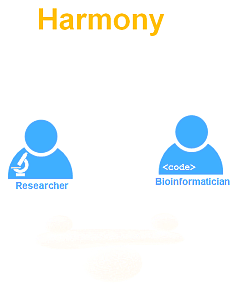
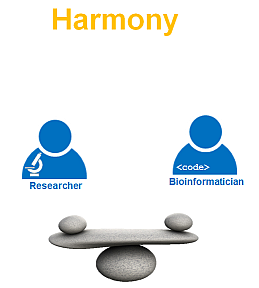
changed the installation chapter

diff --git a/docs/roadmap.html b/docs/roadmap.html
@@ -71,6 +71,7 @@
 <li class="chapter" data-level="1" data-path="introduction.html"><a href="introduction.html"><i class="fa fa-check"></i><b>1</b> Introduction</a><ul>
 <li class="chapter" data-level="" data-path="introduction.html"><a href="introduction.html#motivation"><i class="fa fa-check"></i>Motivation</a></li>
 <li class="chapter" data-level="" data-path="introduction.html"><a href="introduction.html#challenges"><i class="fa fa-check"></i>Challenges</a></li>
+<li class="chapter" data-level="" data-path="introduction.html"><a href="introduction.html#way-forward"><i class="fa fa-check"></i>Way forward</a></li>
 </ul></li>
 <li class="chapter" data-level="2" data-path="tercen-features.html"><a href="tercen-features.html"><i class="fa fa-check"></i><b>2</b> Tercen features</a></li>
 <li class="chapter" data-level="3" data-path="concepts.html"><a href="concepts.html"><i class="fa fa-check"></i><b>3</b> Concepts</a></li>
@@ -93,7 +94,7 @@
 <li class="chapter" data-level="15.1" data-path="deployment.html"><a href="deployment.html#cloud"><i class="fa fa-check"></i><b>15.1</b> Cloud</a></li>
 <li class="chapter" data-level="15.2" data-path="deployment.html"><a href="deployment.html#on-site"><i class="fa fa-check"></i><b>15.2</b> On-site</a></li>
 </ul></li>
-<li class="chapter" data-level="16" data-path="installation.html"><a href="installation.html"><i class="fa fa-check"></i><b>16</b> Installation</a></li>
+<li class="chapter" data-level="16" data-path="server.html"><a href="server.html"><i class="fa fa-check"></i><b>16</b> Running a server</a></li>
 <li class="chapter" data-level="17" data-path="getting-started.html"><a href="getting-started.html"><i class="fa fa-check"></i><b>17</b> Getting started</a></li>
 <li class="chapter" data-level="18" data-path="known-issues.html"><a href="known-issues.html"><i class="fa fa-check"></i><b>18</b> Known issues</a></li>
 <li class="chapter" data-level="19" data-path="roadmap.html"><a href="roadmap.html"><i class="fa fa-check"></i><b>19</b> Roadmap</a></li>
@@ -117,9 +118,11 @@
             <section class="normal" id="section-">
 <div id="roadmap" class="section level1">
 <h1><span class="header-section-number">Chapter 19</span> Roadmap</h1>
-<p>Tercen is complex software and requires to built up in stages with constant feedback. The alpha version allows for testing the value proposition and the feature list. The <strong>Beta</strong> and <strong>Final</strong> are about up-scaling.</p>
-<p><strong>Alpha</strong> Released begin 2016</p>
-<p><strong>Beta</strong> Release begin 2017</p>
+<p>Tercen is complex software and requires to built up in stages with constant feedback. The alpha version allows for testing the value proposition and the feature list. The <strong>beta</strong> and <strong>final</strong> are about up-scaling.</p>
+<p><strong>alpha</strong></p>
+<p>Released begin 2016</p>
+<p><strong>beta</strong></p>
+<p>Release begin 2017</p>
 <ul>
 <li>New server application, called Tercen_Server(beta)</li>
 <li>Easy one button installation</li>
@@ -139,7 +142,8 @@
 <li>New full programmatic access to Tercen</li>
 <li>New tercen R package</li>
 </ul>
-<p><strong>Final</strong> Scheduled for mid 2018</p>
+<p><strong>final</strong></p>
+<p>Scheduled for mid 2018</p>
 <center>
 <img src="images/roadmap.png" />
 </center>

diff --git a/docs/introduction.html b/docs/introduction.html
@@ -71,6 +71,7 @@
 <li class="chapter" data-level="1" data-path="introduction.html"><a href="introduction.html"><i class="fa fa-check"></i><b>1</b> Introduction</a><ul>
 <li class="chapter" data-level="" data-path="introduction.html"><a href="introduction.html#motivation"><i class="fa fa-check"></i>Motivation</a></li>
 <li class="chapter" data-level="" data-path="introduction.html"><a href="introduction.html#challenges"><i class="fa fa-check"></i>Challenges</a></li>
+<li class="chapter" data-level="" data-path="introduction.html"><a href="introduction.html#way-forward"><i class="fa fa-check"></i>Way forward</a></li>
 </ul></li>
 <li class="chapter" data-level="2" data-path="tercen-features.html"><a href="tercen-features.html"><i class="fa fa-check"></i><b>2</b> Tercen features</a></li>
 <li class="chapter" data-level="3" data-path="concepts.html"><a href="concepts.html"><i class="fa fa-check"></i><b>3</b> Concepts</a></li>
@@ -93,7 +94,7 @@
 <li class="chapter" data-level="15.1" data-path="deployment.html"><a href="deployment.html#cloud"><i class="fa fa-check"></i><b>15.1</b> Cloud</a></li>
 <li class="chapter" data-level="15.2" data-path="deployment.html"><a href="deployment.html#on-site"><i class="fa fa-check"></i><b>15.2</b> On-site</a></li>
 </ul></li>
-<li class="chapter" data-level="16" data-path="installation.html"><a href="installation.html"><i class="fa fa-check"></i><b>16</b> Installation</a></li>
+<li class="chapter" data-level="16" data-path="server.html"><a href="server.html"><i class="fa fa-check"></i><b>16</b> Running a server</a></li>
 <li class="chapter" data-level="17" data-path="getting-started.html"><a href="getting-started.html"><i class="fa fa-check"></i><b>17</b> Getting started</a></li>
 <li class="chapter" data-level="18" data-path="known-issues.html"><a href="known-issues.html"><i class="fa fa-check"></i><b>18</b> Known issues</a></li>
 <li class="chapter" data-level="19" data-path="roadmap.html"><a href="roadmap.html"><i class="fa fa-check"></i><b>19</b> Roadmap</a></li>
@@ -129,23 +130,20 @@
 </div>
 <div id="challenges" class="section level2 unnumbered">
 <h2>Challenges</h2>
-<p><strong>Analysis time</strong></p>
+<p><strong>Large Analysis time</strong></p>
 <p>Researchers are spending more time performing analysis.</p>
-<center>
-<img src="images/highthrougput.png" />
-</center>
-<p><strong>Control</strong></p>
-<p>Researchers want control back.</p>
-<center>
-<img src="images/empower_liberate.png" />
-</center>
+<p><strong>Large data sets</strong></p>
+<p>Researchers want to interact with large data sets.</p>
 <p><strong>Ratio</strong></p>
-<p>The ratio between the programmers vs non programmers can be large.</p>
-<center>
-<img src="images/ratio.png" />
-</center>
+<p>The ratio between the programmers vs non-programmers can be large.</p>
+<p><strong>Control</strong></p>
+<p>Researchers want control of their data.</p>
+</div>
+<div id="way-forward" class="section level2 unnumbered">
+<h2>Way forward</h2>
+<p>The way forward is to get researchers back in control of their data.</p>
 <p><strong>Harmony</strong></p>
-<p>We require to get harmony back between the researchers.</p>
+<p>A more harmonious state between the programmers and non-programmers.</p>
 <center>
 <img src="images/harmony.png" />
 </center>

diff --git a/docs/external-databases.html b/docs/external-databases.html
@@ -71,6 +71,7 @@
 <li class="chapter" data-level="1" data-path="introduction.html"><a href="introduction.html"><i class="fa fa-check"></i><b>1</b> Introduction</a><ul>
 <li class="chapter" data-level="" data-path="introduction.html"><a href="introduction.html#motivation"><i class="fa fa-check"></i>Motivation</a></li>
 <li class="chapter" data-level="" data-path="introduction.html"><a href="introduction.html#challenges"><i class="fa fa-check"></i>Challenges</a></li>
+<li class="chapter" data-level="" data-path="introduction.html"><a href="introduction.html#way-forward"><i class="fa fa-check"></i>Way forward</a></li>
 </ul></li>
 <li class="chapter" data-level="2" data-path="tercen-features.html"><a href="tercen-features.html"><i class="fa fa-check"></i><b>2</b> Tercen features</a></li>
 <li class="chapter" data-level="3" data-path="concepts.html"><a href="concepts.html"><i class="fa fa-check"></i><b>3</b> Concepts</a></li>
@@ -93,7 +94,7 @@
 <li class="chapter" data-level="15.1" data-path="deployment.html"><a href="deployment.html#cloud"><i class="fa fa-check"></i><b>15.1</b> Cloud</a></li>
 <li class="chapter" data-level="15.2" data-path="deployment.html"><a href="deployment.html#on-site"><i class="fa fa-check"></i><b>15.2</b> On-site</a></li>
 </ul></li>
-<li class="chapter" data-level="16" data-path="installation.html"><a href="installation.html"><i class="fa fa-check"></i><b>16</b> Installation</a></li>
+<li class="chapter" data-level="16" data-path="server.html"><a href="server.html"><i class="fa fa-check"></i><b>16</b> Running a server</a></li>
 <li class="chapter" data-level="17" data-path="getting-started.html"><a href="getting-started.html"><i class="fa fa-check"></i><b>17</b> Getting started</a></li>
 <li class="chapter" data-level="18" data-path="known-issues.html"><a href="known-issues.html"><i class="fa fa-check"></i><b>18</b> Known issues</a></li>
 <li class="chapter" data-level="19" data-path="roadmap.html"><a href="roadmap.html"><i class="fa fa-check"></i><b>19</b> Roadmap</a></li>
@@ -118,12 +119,12 @@
 <div id="external-databases" class="section level1">
 <h1><span class="header-section-number">Chapter 7</span> External databases</h1>
 <p>Researchers require to add extra information into their data analysis. This is usually extra annotation or even data from an external source (i.e. database). This is effectively a join between two data sets.</p>
-<p>The <em>data step</em> called <em>join left</em> and <em>join right</em> are used for this. The extra data requires to be uploaded first. This is done using the standard method of uploading to Tercen.</p>
+<p>The <strong>data step</strong> called <strong>join left</strong> and <strong>join right</strong> are used for this. The extra data requires to be uploaded first. This is done using the standard method of uploading to Tercen.</p>
 <center>
 <img src="images/workflow_join.png" />
 </center>
 <p>A common key or keys are required to join the two data sets.</p>
-<p>Once joined the extra annotations or data are available for any succeeding <em>step</em>.</p>
+<p>Once joined the extra annotations or data are available for any succeeding <strong>step</strong>.</p>
 <center>
 <img src="images/database.png" />
 </center>

diff --git a/docs/results-reporting.html b/docs/results-reporting.html
@@ -71,6 +71,7 @@
 <li class="chapter" data-level="1" data-path="introduction.html"><a href="introduction.html"><i class="fa fa-check"></i><b>1</b> Introduction</a><ul>
 <li class="chapter" data-level="" data-path="introduction.html"><a href="introduction.html#motivation"><i class="fa fa-check"></i>Motivation</a></li>
 <li class="chapter" data-level="" data-path="introduction.html"><a href="introduction.html#challenges"><i class="fa fa-check"></i>Challenges</a></li>
+<li class="chapter" data-level="" data-path="introduction.html"><a href="introduction.html#way-forward"><i class="fa fa-check"></i>Way forward</a></li>
 </ul></li>
 <li class="chapter" data-level="2" data-path="tercen-features.html"><a href="tercen-features.html"><i class="fa fa-check"></i><b>2</b> Tercen features</a></li>
 <li class="chapter" data-level="3" data-path="concepts.html"><a href="concepts.html"><i class="fa fa-check"></i><b>3</b> Concepts</a></li>
@@ -93,7 +94,7 @@
 <li class="chapter" data-level="15.1" data-path="deployment.html"><a href="deployment.html#cloud"><i class="fa fa-check"></i><b>15.1</b> Cloud</a></li>
 <li class="chapter" data-level="15.2" data-path="deployment.html"><a href="deployment.html#on-site"><i class="fa fa-check"></i><b>15.2</b> On-site</a></li>
 </ul></li>
-<li class="chapter" data-level="16" data-path="installation.html"><a href="installation.html"><i class="fa fa-check"></i><b>16</b> Installation</a></li>
+<li class="chapter" data-level="16" data-path="server.html"><a href="server.html"><i class="fa fa-check"></i><b>16</b> Running a server</a></li>
 <li class="chapter" data-level="17" data-path="getting-started.html"><a href="getting-started.html"><i class="fa fa-check"></i><b>17</b> Getting started</a></li>
 <li class="chapter" data-level="18" data-path="known-issues.html"><a href="known-issues.html"><i class="fa fa-check"></i><b>18</b> Known issues</a></li>
 <li class="chapter" data-level="19" data-path="roadmap.html"><a href="roadmap.html"><i class="fa fa-check"></i><b>19</b> Roadmap</a></li>
@@ -117,8 +118,8 @@
             <section class="normal" id="section-">
 <div id="results-reporting" class="section level1">
 <h1><span class="header-section-number">Chapter 10</span> Results reporting</h1>
-<p>The ability to publish results for scientific journals or even group presentation is key. The current version of beta is implementing the a high quality image output. Any <em>data step</em> allows the researcher to export a high quality visual for reports.</p>
-<p>The final release of Tercen is targeted to have a full reporting subsystem in order to convert <em>workflows</em> into reports.</p>
+<p>The ability to publish results for scientific journals or even group presentation is key. The current version of beta is implementing a high quality image output. Any <strong>data step</strong> allows the researcher to export a high quality visual for reports.</p>
+<p>The final release of Tercen is targeted to have a full reporting subsystem in order to convert <strong>workflows</strong> into reports.</p>
 <center>
 <img src="images/report.png" />
 </center>

diff --git a/docs/tercen-features.html b/docs/tercen-features.html
@@ -71,6 +71,7 @@
 <li class="chapter" data-level="1" data-path="introduction.html"><a href="introduction.html"><i class="fa fa-check"></i><b>1</b> Introduction</a><ul>
 <li class="chapter" data-level="" data-path="introduction.html"><a href="introduction.html#motivation"><i class="fa fa-check"></i>Motivation</a></li>
 <li class="chapter" data-level="" data-path="introduction.html"><a href="introduction.html#challenges"><i class="fa fa-check"></i>Challenges</a></li>
+<li class="chapter" data-level="" data-path="introduction.html"><a href="introduction.html#way-forward"><i class="fa fa-check"></i>Way forward</a></li>
 </ul></li>
 <li class="chapter" data-level="2" data-path="tercen-features.html"><a href="tercen-features.html"><i class="fa fa-check"></i><b>2</b> Tercen features</a></li>
 <li class="chapter" data-level="3" data-path="concepts.html"><a href="concepts.html"><i class="fa fa-check"></i><b>3</b> Concepts</a></li>
@@ -93,7 +94,7 @@
 <li class="chapter" data-level="15.1" data-path="deployment.html"><a href="deployment.html#cloud"><i class="fa fa-check"></i><b>15.1</b> Cloud</a></li>
 <li class="chapter" data-level="15.2" data-path="deployment.html"><a href="deployment.html#on-site"><i class="fa fa-check"></i><b>15.2</b> On-site</a></li>
 </ul></li>
-<li class="chapter" data-level="16" data-path="installation.html"><a href="installation.html"><i class="fa fa-check"></i><b>16</b> Installation</a></li>
+<li class="chapter" data-level="16" data-path="server.html"><a href="server.html"><i class="fa fa-check"></i><b>16</b> Running a server</a></li>
 <li class="chapter" data-level="17" data-path="getting-started.html"><a href="getting-started.html"><i class="fa fa-check"></i><b>17</b> Getting started</a></li>
 <li class="chapter" data-level="18" data-path="known-issues.html"><a href="known-issues.html"><i class="fa fa-check"></i><b>18</b> Known issues</a></li>
 <li class="chapter" data-level="19" data-path="roadmap.html"><a href="roadmap.html"><i class="fa fa-check"></i><b>19</b> Roadmap</a></li>
@@ -176,10 +177,10 @@
 <p>Refer to chapter <a href="programmatic-access.html#programmatic-access">14</a>.</p>
 <p><strong>Cloud hosted or on-site</strong></p>
 <p>A researcher shares the complete process via a secure internet connection to secure cloud service, all computation resources (CPU, RAM and hard disk) are dynamically allocated to the researcher. Tercen is also available for onsite deployment.</p>
-<p>Refer to chapter <a href="deployment.html#deployment">15</a>.</p>
+<p>Refer to chapter <a href="deployment.html#deployment">15</a> and chapter <a href="server.html#server">16</a>.</p>
 <p><strong>Zero install</strong></p>
 <p>A researcher immediately starts performing analysis using a browser on any device without the aid of an IT administration.</p>
-<p>Refer to chapter <a href="installation.html#installation">16</a>.</p>
+<p>Refer to chapter <a href="deployment.html#deployment">15</a>.</p>
 <center>
 <img src="images/deploy.png" />
 </center>

diff --git a/docs/deployment.html b/docs/deployment.html
@@ -32,7 +32,7 @@
   
   
 <link rel="prev" href="programmatic-access.html">
-<link rel="next" href="installation.html">
+<link rel="next" href="server.html">
 <script src="libs/jquery-2.2.3/jquery.min.js"></script>
 <link href="libs/gitbook-2.6.7/css/style.css" rel="stylesheet" />
 <link href="libs/gitbook-2.6.7/css/plugin-bookdown.css" rel="stylesheet" />
@@ -71,6 +71,7 @@
 <li class="chapter" data-level="1" data-path="introduction.html"><a href="introduction.html"><i class="fa fa-check"></i><b>1</b> Introduction</a><ul>
 <li class="chapter" data-level="" data-path="introduction.html"><a href="introduction.html#motivation"><i class="fa fa-check"></i>Motivation</a></li>
 <li class="chapter" data-level="" data-path="introduction.html"><a href="introduction.html#challenges"><i class="fa fa-check"></i>Challenges</a></li>
+<li class="chapter" data-level="" data-path="introduction.html"><a href="introduction.html#way-forward"><i class="fa fa-check"></i>Way forward</a></li>
 </ul></li>
 <li class="chapter" data-level="2" data-path="tercen-features.html"><a href="tercen-features.html"><i class="fa fa-check"></i><b>2</b> Tercen features</a></li>
 <li class="chapter" data-level="3" data-path="concepts.html"><a href="concepts.html"><i class="fa fa-check"></i><b>3</b> Concepts</a></li>
@@ -93,7 +94,7 @@
 <li class="chapter" data-level="15.1" data-path="deployment.html"><a href="deployment.html#cloud"><i class="fa fa-check"></i><b>15.1</b> Cloud</a></li>
 <li class="chapter" data-level="15.2" data-path="deployment.html"><a href="deployment.html#on-site"><i class="fa fa-check"></i><b>15.2</b> On-site</a></li>
 </ul></li>
-<li class="chapter" data-level="16" data-path="installation.html"><a href="installation.html"><i class="fa fa-check"></i><b>16</b> Installation</a></li>
+<li class="chapter" data-level="16" data-path="server.html"><a href="server.html"><i class="fa fa-check"></i><b>16</b> Running a server</a></li>
 <li class="chapter" data-level="17" data-path="getting-started.html"><a href="getting-started.html"><i class="fa fa-check"></i><b>17</b> Getting started</a></li>
 <li class="chapter" data-level="18" data-path="known-issues.html"><a href="known-issues.html"><i class="fa fa-check"></i><b>18</b> Known issues</a></li>
 <li class="chapter" data-level="19" data-path="roadmap.html"><a href="roadmap.html"><i class="fa fa-check"></i><b>19</b> Roadmap</a></li>
@@ -161,7 +162,7 @@
         </div>
       </div>
 <a href="programmatic-access.html" class="navigation navigation-prev " aria-label="Previous page"><i class="fa fa-angle-left"></i></a>
-<a href="installation.html" class="navigation navigation-next " aria-label="Next page"><i class="fa fa-angle-right"></i></a>
+<a href="server.html" class="navigation navigation-next " aria-label="Next page"><i class="fa fa-angle-right"></i></a>
     </div>
   </div>
 <script src="libs/gitbook-2.6.7/js/app.min.js"></script>

diff --git a/docs/getting-started.html b/docs/getting-started.html
@@ -31,7 +31,7 @@
   <meta name="apple-mobile-web-app-status-bar-style" content="black">
   
   
-<link rel="prev" href="installation.html">
+<link rel="prev" href="server.html">
 <link rel="next" href="known-issues.html">
 <script src="libs/jquery-2.2.3/jquery.min.js"></script>
 <link href="libs/gitbook-2.6.7/css/style.css" rel="stylesheet" />
@@ -71,6 +71,7 @@
 <li class="chapter" data-level="1" data-path="introduction.html"><a href="introduction.html"><i class="fa fa-check"></i><b>1</b> Introduction</a><ul>
 <li class="chapter" data-level="" data-path="introduction.html"><a href="introduction.html#motivation"><i class="fa fa-check"></i>Motivation</a></li>
 <li class="chapter" data-level="" data-path="introduction.html"><a href="introduction.html#challenges"><i class="fa fa-check"></i>Challenges</a></li>
+<li class="chapter" data-level="" data-path="introduction.html"><a href="introduction.html#way-forward"><i class="fa fa-check"></i>Way forward</a></li>
 </ul></li>
 <li class="chapter" data-level="2" data-path="tercen-features.html"><a href="tercen-features.html"><i class="fa fa-check"></i><b>2</b> Tercen features</a></li>
 <li class="chapter" data-level="3" data-path="concepts.html"><a href="concepts.html"><i class="fa fa-check"></i><b>3</b> Concepts</a></li>
@@ -93,7 +94,7 @@
 <li class="chapter" data-level="15.1" data-path="deployment.html"><a href="deployment.html#cloud"><i class="fa fa-check"></i><b>15.1</b> Cloud</a></li>
 <li class="chapter" data-level="15.2" data-path="deployment.html"><a href="deployment.html#on-site"><i class="fa fa-check"></i><b>15.2</b> On-site</a></li>
 </ul></li>
-<li class="chapter" data-level="16" data-path="installation.html"><a href="installation.html"><i class="fa fa-check"></i><b>16</b> Installation</a></li>
+<li class="chapter" data-level="16" data-path="server.html"><a href="server.html"><i class="fa fa-check"></i><b>16</b> Running a server</a></li>
 <li class="chapter" data-level="17" data-path="getting-started.html"><a href="getting-started.html"><i class="fa fa-check"></i><b>17</b> Getting started</a></li>
 <li class="chapter" data-level="18" data-path="known-issues.html"><a href="known-issues.html"><i class="fa fa-check"></i><b>18</b> Known issues</a></li>
 <li class="chapter" data-level="19" data-path="roadmap.html"><a href="roadmap.html"><i class="fa fa-check"></i><b>19</b> Roadmap</a></li>
@@ -135,7 +136,7 @@
           </div>
         </div>
       </div>
-<a href="installation.html" class="navigation navigation-prev " aria-label="Previous page"><i class="fa fa-angle-left"></i></a>
+<a href="server.html" class="navigation navigation-prev " aria-label="Previous page"><i class="fa fa-angle-left"></i></a>
 <a href="known-issues.html" class="navigation navigation-next " aria-label="Next page"><i class="fa fa-angle-right"></i></a>
     </div>
   </div>

diff --git a/docs/visualization.html b/docs/visualization.html
@@ -71,6 +71,7 @@
 <li class="chapter" data-level="1" data-path="introduction.html"><a href="introduction.html"><i class="fa fa-check"></i><b>1</b> Introduction</a><ul>
 <li class="chapter" data-level="" data-path="introduction.html"><a href="introduction.html#motivation"><i class="fa fa-check"></i>Motivation</a></li>
 <li class="chapter" data-level="" data-path="introduction.html"><a href="introduction.html#challenges"><i class="fa fa-check"></i>Challenges</a></li>
+<li class="chapter" data-level="" data-path="introduction.html"><a href="introduction.html#way-forward"><i class="fa fa-check"></i>Way forward</a></li>
 </ul></li>
 <li class="chapter" data-level="2" data-path="tercen-features.html"><a href="tercen-features.html"><i class="fa fa-check"></i><b>2</b> Tercen features</a></li>
 <li class="chapter" data-level="3" data-path="concepts.html"><a href="concepts.html"><i class="fa fa-check"></i><b>3</b> Concepts</a></li>
@@ -93,7 +94,7 @@
 <li class="chapter" data-level="15.1" data-path="deployment.html"><a href="deployment.html#cloud"><i class="fa fa-check"></i><b>15.1</b> Cloud</a></li>
 <li class="chapter" data-level="15.2" data-path="deployment.html"><a href="deployment.html#on-site"><i class="fa fa-check"></i><b>15.2</b> On-site</a></li>
 </ul></li>
-<li class="chapter" data-level="16" data-path="installation.html"><a href="installation.html"><i class="fa fa-check"></i><b>16</b> Installation</a></li>
+<li class="chapter" data-level="16" data-path="server.html"><a href="server.html"><i class="fa fa-check"></i><b>16</b> Running a server</a></li>
 <li class="chapter" data-level="17" data-path="getting-started.html"><a href="getting-started.html"><i class="fa fa-check"></i><b>17</b> Getting started</a></li>
 <li class="chapter" data-level="18" data-path="known-issues.html"><a href="known-issues.html"><i class="fa fa-check"></i><b>18</b> Known issues</a></li>
 <li class="chapter" data-level="19" data-path="roadmap.html"><a href="roadmap.html"><i class="fa fa-check"></i><b>19</b> Roadmap</a></li>
@@ -126,7 +127,7 @@
 <li>color zone</li>
 <li>label zone</li>
 </ul>
-<p>The type of visualization is determine by what is configured (or preconfigured)</p>
+<p>The type of visualization is determine by what is configured (or pre-configured)</p>
 <p>Here are a few examples:</p>
 <strong>Heatmap</strong> column, row, color, heatmap
 <center>

diff --git a/docs/server.html b/docs/server.html
@@ -31,8 +31,8 @@
   <meta name="apple-mobile-web-app-status-bar-style" content="black">
   
   
-<link rel="prev" href="operators.html">
-<link rel="next" href="deployment.html">
+<link rel="prev" href="deployment.html">
+<link rel="next" href="getting-started.html">
 <script src="libs/jquery-2.2.3/jquery.min.js"></script>
 <link href="libs/gitbook-2.6.7/css/style.css" rel="stylesheet" />
 <link href="libs/gitbook-2.6.7/css/plugin-bookdown.css" rel="stylesheet" />
@@ -116,19 +116,11 @@
           <div class="page-inner">
 
             <section class="normal" id="section-">
-<div id="programmatic-access" class="section level1">
-<h1><span class="header-section-number">Chapter 14</span> Programmatic access</h1>
-<p>The <a href="https://github.com/tercen/teRcen"><code>teRcen</code></a> R package on the tercen github allows complete programmatic control. Any functionality available graphically in Tercen is also available pro grammatically. This includes, for example:</p>
-<ul>
-<li>uploading data</li>
-<li>computing data</li>
-<li>creating groups and users</li>
-<li>creating projects</li>
-<li>creating workflows and operators</li>
-</ul>
-<p>For the full API please refer to the <a href="https://github.com/tercen/teRcen">teRcen R package</a></p>
+<div id="server" class="section level1">
+<h1><span class="header-section-number">Chapter 16</span> Running a server</h1>
+<p>If you require the on-site version of tercen then send an email to <code>info@tercen.com</code>. Currently the on-site versions is the beta of tercen.</p>
 <center>
-<img src="images/API.png" />
+<img src="images/deploy.png" />
 </center>
 
 </div>
@@ -137,8 +129,8 @@
           </div>
         </div>
       </div>
-<a href="operators.html" class="navigation navigation-prev " aria-label="Previous page"><i class="fa fa-angle-left"></i></a>
-<a href="deployment.html" class="navigation navigation-next " aria-label="Next page"><i class="fa fa-angle-right"></i></a>
+<a href="deployment.html" class="navigation navigation-prev " aria-label="Previous page"><i class="fa fa-angle-left"></i></a>
+<a href="getting-started.html" class="navigation navigation-next " aria-label="Next page"><i class="fa fa-angle-right"></i></a>
     </div>
   </div>
 <script src="libs/gitbook-2.6.7/js/app.min.js"></script>

diff --git a/docs/about-the-authors.html b/docs/about-the-authors.html
@@ -71,6 +71,7 @@
 <li class="chapter" data-level="1" data-path="introduction.html"><a href="introduction.html"><i class="fa fa-check"></i><b>1</b> Introduction</a><ul>
 <li class="chapter" data-level="" data-path="introduction.html"><a href="introduction.html#motivation"><i class="fa fa-check"></i>Motivation</a></li>
 <li class="chapter" data-level="" data-path="introduction.html"><a href="introduction.html#challenges"><i class="fa fa-check"></i>Challenges</a></li>
+<li class="chapter" data-level="" data-path="introduction.html"><a href="introduction.html#way-forward"><i class="fa fa-check"></i>Way forward</a></li>
 </ul></li>
 <li class="chapter" data-level="2" data-path="tercen-features.html"><a href="tercen-features.html"><i class="fa fa-check"></i><b>2</b> Tercen features</a></li>
 <li class="chapter" data-level="3" data-path="concepts.html"><a href="concepts.html"><i class="fa fa-check"></i><b>3</b> Concepts</a></li>
@@ -93,7 +94,7 @@
 <li class="chapter" data-level="15.1" data-path="deployment.html"><a href="deployment.html#cloud"><i class="fa fa-check"></i><b>15.1</b> Cloud</a></li>
 <li class="chapter" data-level="15.2" data-path="deployment.html"><a href="deployment.html#on-site"><i class="fa fa-check"></i><b>15.2</b> On-site</a></li>
 </ul></li>
-<li class="chapter" data-level="16" data-path="installation.html"><a href="installation.html"><i class="fa fa-check"></i><b>16</b> Installation</a></li>
+<li class="chapter" data-level="16" data-path="server.html"><a href="server.html"><i class="fa fa-check"></i><b>16</b> Running a server</a></li>
 <li class="chapter" data-level="17" data-path="getting-started.html"><a href="getting-started.html"><i class="fa fa-check"></i><b>17</b> Getting started</a></li>
 <li class="chapter" data-level="18" data-path="known-issues.html"><a href="known-issues.html"><i class="fa fa-check"></i><b>18</b> Known issues</a></li>
 <li class="chapter" data-level="19" data-path="roadmap.html"><a href="roadmap.html"><i class="fa fa-check"></i><b>19</b> Roadmap</a></li>

diff --git a/docs/concepts.html b/docs/concepts.html
@@ -71,6 +71,7 @@
 <li class="chapter" data-level="1" data-path="introduction.html"><a href="introduction.html"><i class="fa fa-check"></i><b>1</b> Introduction</a><ul>
 <li class="chapter" data-level="" data-path="introduction.html"><a href="introduction.html#motivation"><i class="fa fa-check"></i>Motivation</a></li>
 <li class="chapter" data-level="" data-path="introduction.html"><a href="introduction.html#challenges"><i class="fa fa-check"></i>Challenges</a></li>
+<li class="chapter" data-level="" data-path="introduction.html"><a href="introduction.html#way-forward"><i class="fa fa-check"></i>Way forward</a></li>
 </ul></li>
 <li class="chapter" data-level="2" data-path="tercen-features.html"><a href="tercen-features.html"><i class="fa fa-check"></i><b>2</b> Tercen features</a></li>
 <li class="chapter" data-level="3" data-path="concepts.html"><a href="concepts.html"><i class="fa fa-check"></i><b>3</b> Concepts</a></li>
@@ -93,7 +94,7 @@
 <li class="chapter" data-level="15.1" data-path="deployment.html"><a href="deployment.html#cloud"><i class="fa fa-check"></i><b>15.1</b> Cloud</a></li>
 <li class="chapter" data-level="15.2" data-path="deployment.html"><a href="deployment.html#on-site"><i class="fa fa-check"></i><b>15.2</b> On-site</a></li>
 </ul></li>
-<li class="chapter" data-level="16" data-path="installation.html"><a href="installation.html"><i class="fa fa-check"></i><b>16</b> Installation</a></li>
+<li class="chapter" data-level="16" data-path="server.html"><a href="server.html"><i class="fa fa-check"></i><b>16</b> Running a server</a></li>
 <li class="chapter" data-level="17" data-path="getting-started.html"><a href="getting-started.html"><i class="fa fa-check"></i><b>17</b> Getting started</a></li>
 <li class="chapter" data-level="18" data-path="known-issues.html"><a href="known-issues.html"><i class="fa fa-check"></i><b>18</b> Known issues</a></li>
 <li class="chapter" data-level="19" data-path="roadmap.html"><a href="roadmap.html"><i class="fa fa-check"></i><b>19</b> Roadmap</a></li>

diff --git a/docs/data-provenance.html b/docs/data-provenance.html
@@ -71,6 +71,7 @@
 <li class="chapter" data-level="1" data-path="introduction.html"><a href="introduction.html"><i class="fa fa-check"></i><b>1</b> Introduction</a><ul>
 <li class="chapter" data-level="" data-path="introduction.html"><a href="introduction.html#motivation"><i class="fa fa-check"></i>Motivation</a></li>
 <li class="chapter" data-level="" data-path="introduction.html"><a href="introduction.html#challenges"><i class="fa fa-check"></i>Challenges</a></li>
+<li class="chapter" data-level="" data-path="introduction.html"><a href="introduction.html#way-forward"><i class="fa fa-check"></i>Way forward</a></li>
 </ul></li>
 <li class="chapter" data-level="2" data-path="tercen-features.html"><a href="tercen-features.html"><i class="fa fa-check"></i><b>2</b> Tercen features</a></li>
 <li class="chapter" data-level="3" data-path="concepts.html"><a href="concepts.html"><i class="fa fa-check"></i><b>3</b> Concepts</a></li>
@@ -93,7 +94,7 @@
 <li class="chapter" data-level="15.1" data-path="deployment.html"><a href="deployment.html#cloud"><i class="fa fa-check"></i><b>15.1</b> Cloud</a></li>
 <li class="chapter" data-level="15.2" data-path="deployment.html"><a href="deployment.html#on-site"><i class="fa fa-check"></i><b>15.2</b> On-site</a></li>
 </ul></li>
-<li class="chapter" data-level="16" data-path="installation.html"><a href="installation.html"><i class="fa fa-check"></i><b>16</b> Installation</a></li>
+<li class="chapter" data-level="16" data-path="server.html"><a href="server.html"><i class="fa fa-check"></i><b>16</b> Running a server</a></li>
 <li class="chapter" data-level="17" data-path="getting-started.html"><a href="getting-started.html"><i class="fa fa-check"></i><b>17</b> Getting started</a></li>
 <li class="chapter" data-level="18" data-path="known-issues.html"><a href="known-issues.html"><i class="fa fa-check"></i><b>18</b> Known issues</a></li>
 <li class="chapter" data-level="19" data-path="roadmap.html"><a href="roadmap.html"><i class="fa fa-check"></i><b>19</b> Roadmap</a></li>
